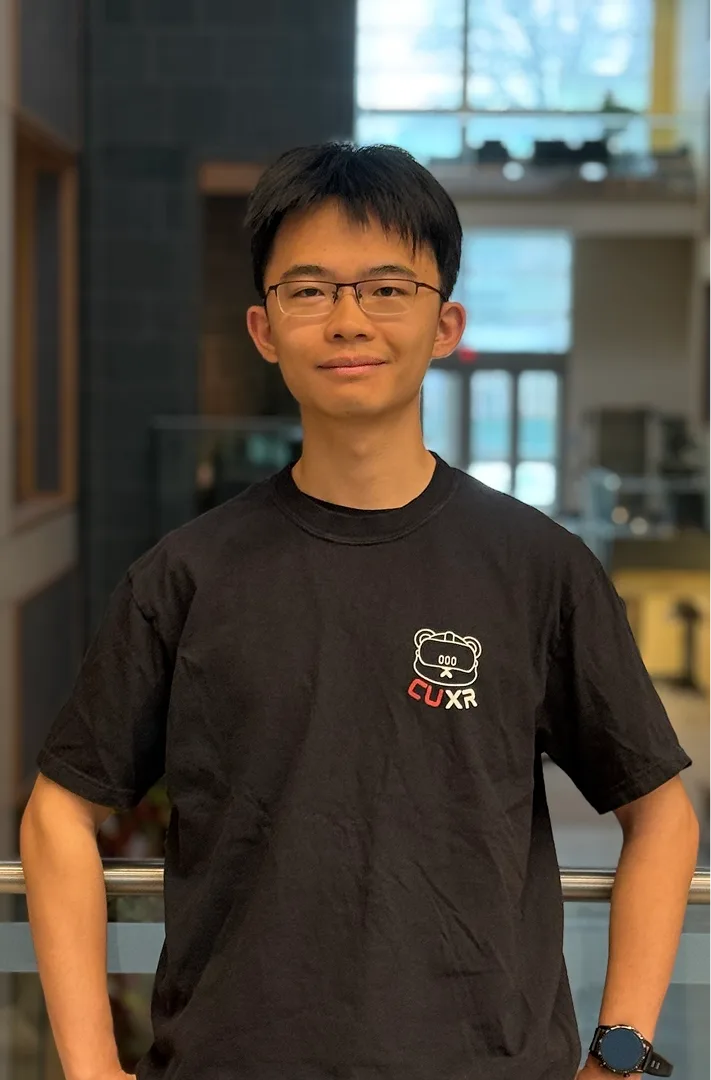
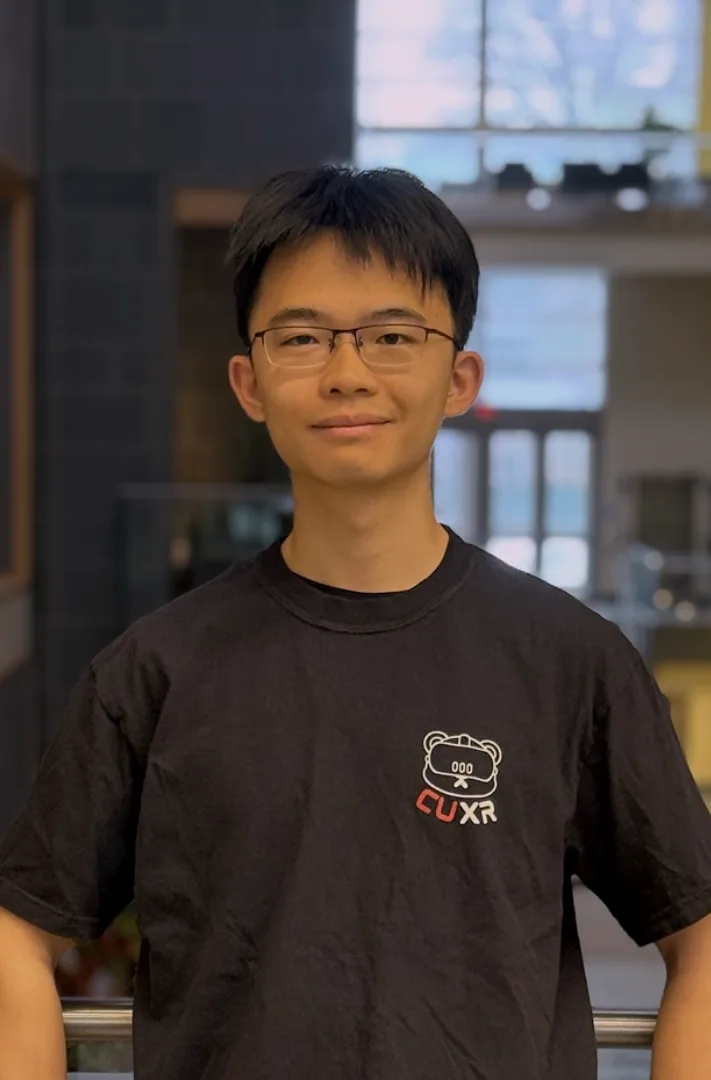
everyoen has photos

diff --git a/team/index.html b/team/index.html
@@ -245,7 +245,7 @@
             <div class="profile-card" data-teams="game lead">
                 <div class="profile-image-container">
                     <picture class="profile-image">
-                        <img src="/Assets/placeholder.webp">
+                        <img src="Website_Headshots/Annabelle_Ford.webp">
                         <div class="overlay-text">
                             <p>
                                 Computer Science
@@ -262,7 +262,7 @@
             <div class="profile-card" data-teams="bci lead">
                 <div class="profile-image-container">
                     <picture class="profile-image">
-                        <img src="/Assets/placeholder.webp">
+                        <img src="Website_Headshots/Ashee_Bansal.webp">
                         <div class="overlay-text">
                             <p>
                                 Computer Science
@@ -317,7 +317,7 @@
             <div class="profile-card" data-teams="game">
                 <div class="profile-image-container">
                     <picture class="profile-image">
-                        <img src="/Assets/placeholder.webp">
+                        <img src="Website_Headshots/George_Margono.webp">
                         <div class="overlay-text">
                             <p>
                                 Computer Science
@@ -556,7 +556,7 @@
             <div class="profile-card" data-teams="business">
                 <div class="profile-image-container">
                     <picture class="profile-image">
-                        <img src="/Assets/placeholder.webp">
+                        <img src="Website_Headshots/Reese_Kim.webp">
                         <div class="overlay-text">
                             <p>
                                 Applied Economics and Management
@@ -573,7 +573,7 @@
             <div class="profile-card" data-teams="business">
                 <div class="profile-image-container">
                     <picture class="profile-image">
-                        <img src="/Assets/placeholder.webp">
+                        <img src="Website_Headshots/Sydney_Chin.webp">
                         <div class="overlay-text">
                             <p>
                                 Information Science
@@ -657,7 +657,7 @@
             <div class="profile-card" data-teams="software">
                 <div class="profile-image-container">
                     <picture class="profile-image">
-                        <img src="/Assets/placeholder.webp">
+                        <img src="Website_Headshots/Erim_Keresteci.webp">
                         <div class="overlay-text">
                             <p>
                                 Computer Science
